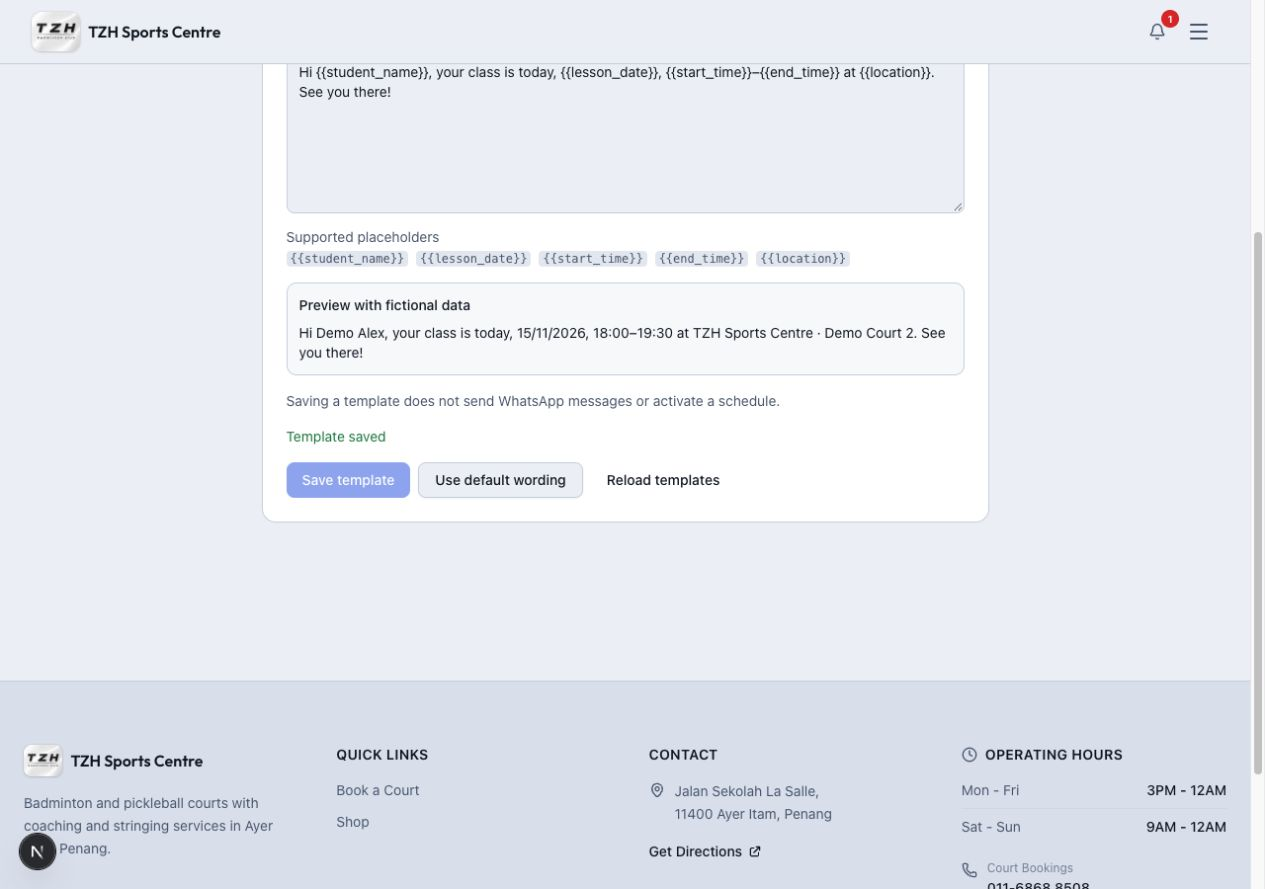
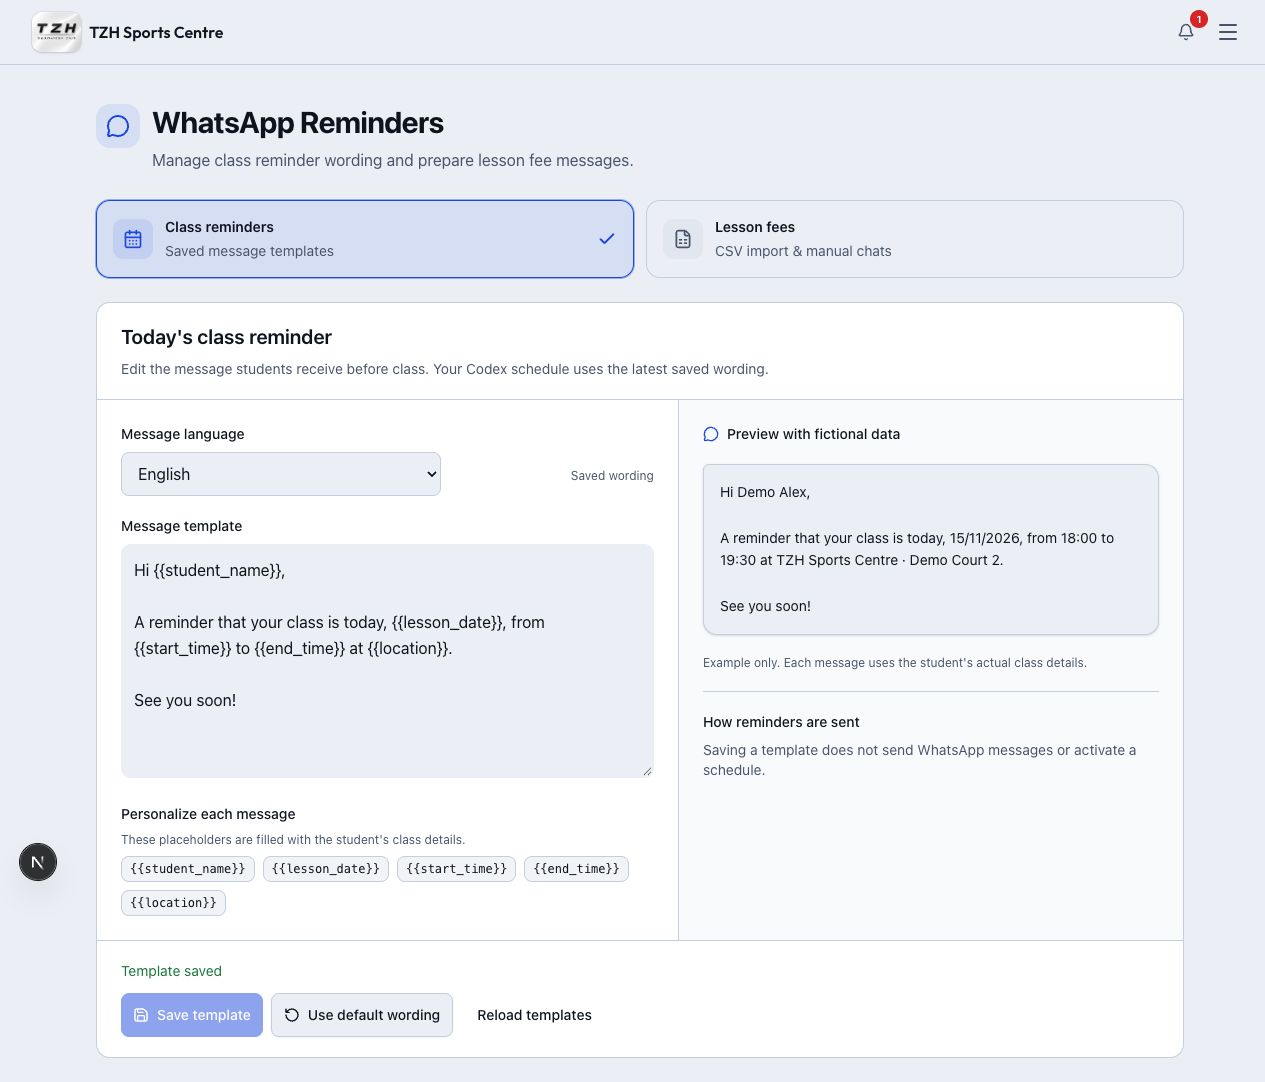
docs: update reminder workspace guides and scheduler setup

diff --git a/website/lesson-reminders.md b/website/lesson-reminders.md
@@ -2,8 +2,8 @@
 
 **Role:** Administrator. **Availability:** Preview; awaiting deployment.
 
-Open [WhatsApp reminder templates](https://tzhsports.vercel.app/admin/whatsapp-reminders),
-or **Admin → WhatsApp Reminders → Edit lesson reminder templates**.
+Open [WhatsApp Reminders](https://tzhsports.vercel.app/admin/reminders), then
+choose **Class reminders**. The editor and example preview are on this page.
 
 1. Choose **Message language**: English, 中文 or Bahasa Malaysia.
 2. Edit **Message template** using the supported placeholders below the box.
@@ -15,8 +15,16 @@ a draft; click **Save template** to keep it.
 
 ![Lesson reminder template and fictional preview](../images/lesson-reminders/desktop.png)
 
-On a phone, the editor stacks the same controls in one column.
+On a phone, the editor and preview stack in one column. The Save action follows
+the preview. Switching between **Class reminders** and **Lesson fees** keeps your
+drafts while this page stays open.
 
 ![Mobile lesson reminder editor](../images/lesson-reminders/mobile.png)
 
 For sending setup, see [Today's lesson reminders in Codex](../mcp/lesson-reminders.md).
+
+For fee messages, choose **Lesson fees**, or [open fee reminders directly](https://tzhsports.vercel.app/admin/reminders?view=fees).
+Upload/paste the CSV, check the fee message preview, then open each WhatsApp chat
+manually. This section does not record payments or send automatically.
+
+![Separate lesson-fee preparation workspace](../images/lesson-reminders/fees.png)

diff --git a/mcp/lesson-reminders.md b/mcp/lesson-reminders.md
@@ -14,6 +14,10 @@ After the owner completes a supervised send and activates the schedule, Codex
 finds eligible students, prepares the latest saved message, verifies the WhatsApp
 chat and prefilled text, sends, then records the observed outgoing message.
 
+- Each daily run sends reminders for all eligible unsent classes today, even
+  evening classes when the schedule runs in the morning. It does not wait until
+  each class is nearly starting. Multiple classes for one student get separate
+  reminders.
 - Today means Malaysia time. Cancelled classes, recorded absences, classes already
   started and invalid contacts are skipped.
 - Students use their account phone; guests use their recorded enrollment phone.
@@ -25,3 +29,8 @@ chat and prefilled text, sends, then records the observed outgoing message.
 
 Missing tools, sign-in or a mismatched chat/draft stops the flow for attention.
 This workflow reminds students to attend class; it does not collect lesson fees.
+
+For guided schedule creation, copy the [lesson scheduler setup prompt](https://github.com/zhihong0924/tzh-sports-centre-mcp/blob/main/prompts/setup-lesson-reminder-scheduler.md)
+into your updated Codex workspace after deployment. Codex asks for run time,
+language and WhatsApp session before activation. Keep your computer and the
+signed-in session available for scheduled runs.

diff --git a/changelog/2026-11-16.md b/changelog/2026-11-16.md
@@ -4,4 +4,6 @@
 
 - [Add or edit stringing with optional pickup timing collapsed](../website/stringing.md), required-field `*` labels and separated phone/tablet date-time inputs. Saved schedules open automatically.
 
-- [Edit today's lesson reminder templates](../website/lesson-reminders.md) in English, Chinese or Malay, then [use Codex to remind eligible students about today's class](../mcp/lesson-reminders.md), with one recorded send per student/class. Preview; awaiting deployment and supervised WhatsApp setup.
+- [Edit today's class reminder templates in the redesigned workspace](../website/lesson-reminders.md), with English, Chinese and Malay wording plus a separate Lesson fees CSV section. [Use Codex to remind all eligible students about today’s classes in one scheduled batch](../mcp/lesson-reminders.md) after deployment and supervised WhatsApp setup. Preview; awaiting deployment.
+
+- Set up [stringing reminders](../mcp/stringing-reminders.md) or [daily lesson reminders](../mcp/lesson-reminders.md) with copy-and-paste Codex prompts that ask for your run time and follow-up choices. Lesson server release pending.

diff --git a/mcp/stringing-reminders.md b/mcp/stringing-reminders.md
@@ -83,3 +83,7 @@ update may cause a duplicate.
 ![Existing message controls on mobile](../images/stringing/reminders-sent-status-mobile.jpg)
 
 </details>
+
+For guided setup, copy the [stringing scheduler setup prompt](https://github.com/zhihong0924/tzh-sports-centre-mcp/blob/main/prompts/setup-stringing-reminder-scheduler.md)
+into your updated Codex workspace. Codex asks for run time, selected stages and
+payment follow-up waiting days before activating the schedule.
